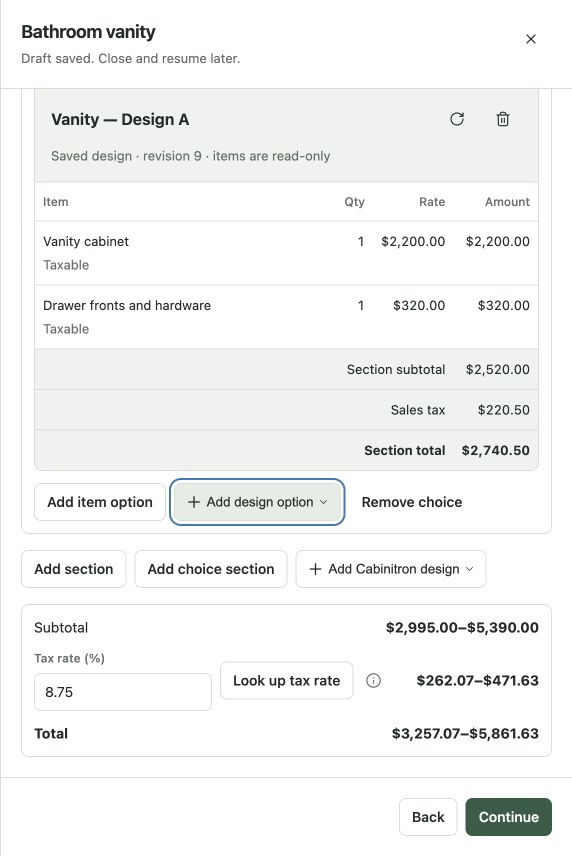
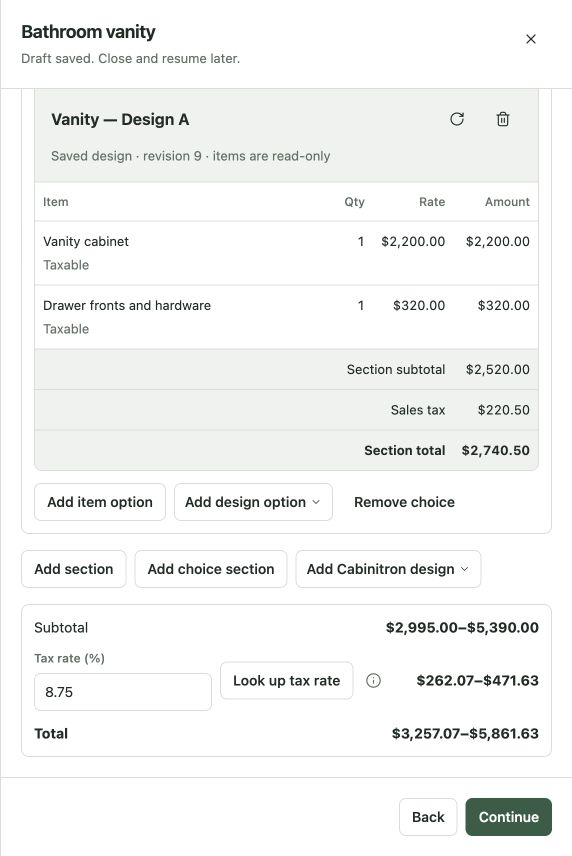
Match button typography and align estimate tax controls

Changed region(s): [[0.2972, 0.5467, 0.8024, 0.6682]]

diff --git a/apps/catalog/src/EstimateWorkflowPrototype.tsx b/apps/catalog/src/EstimateWorkflowPrototype.tsx
@@ -1,4 +1,4 @@
-import { useEffect, useRef, useState } from "react";
+import { useEffect, useId, useRef, useState } from "react";
 import * as stylex from "@stylexjs/stylex";
 import {
   Button,
@@ -16,7 +16,7 @@ import {
   type WorkflowStep,
 } from "@from-trees/ui";
 import { layout, gap, padding } from "@from-trees/ui/utilities";
-import { color } from "@from-trees/ui/tokens.stylex";
+import { color, metrics } from "@from-trees/ui/tokens.stylex";
 
 type Row = {
   id: string;
@@ -147,6 +147,12 @@ const s = stylex.create({
     lineHeight: 1.5,
     overflowWrap: "anywhere",
   },
+  taxLabel: {
+    fontSize: metrics.small,
+    fontWeight: 550,
+    color: color.muted,
+    lineHeight: 1.4,
+  },
   field: { minWidth: 120 },
   qty: { width: 52 },
   rate: { width: 76 },
@@ -174,6 +180,7 @@ const s = stylex.create({
 
 /** Interactive catalog composition. All customers, prices, designs and delivery are synthetic. */
 export function EstimateWorkflowPrototype() {
+  const taxInputId = useId();
   const [draft, setDraft] = useState<Draft>(initial),
     [stored, setStored] = useState<Draft | null>(read),
     [open, setOpen] = useState(false),
@@ -317,12 +324,10 @@ export function EstimateWorkflowPrototype() {
   const designButton = (choiceId?: string, choiceTitle?: string) => {
     const text = choiceId ? "Add design option" : "Add Cabinitron design";
     return locked ? (
-      <Button icon="add" isDisabled>
-        {text}
-      </Button>
+      <Button isDisabled>{text}</Button>
     ) : (
       <MenuButton
-        icon="add"
+        icon={null}
         text={text}
         label={choiceId ? `Add design option to ${choiceTitle}` : text}
         actions={designs.map((name) => ({
@@ -592,70 +597,91 @@ export function EstimateWorkflowPrototype() {
       );
   const formattedRange = ([min, max]: [number, number]) =>
     min === max ? money(min) : `${money(min)}–${money(max)}`;
-  const renderSummary = (editable: boolean) => (
-    <section
-      aria-label="Estimate summary"
-      {...stylex.props(s.card, padding.md, layout.stack, gap.md)}
-    >
-      <div {...stylex.props(layout.row, layout.between, gap.sm)}>
-        <span>Subtotal</span>
-        <strong>{formattedRange(range(draft, subtotal))}</strong>
-      </div>
-      <div
-        {...stylex.props(
-          layout.row,
-          layout.wrap,
-          layout.between,
-          layout.alignCenter,
-          gap.sm,
-        )}
+  const renderSummary = (editable: boolean) => {
+    const taxAmount = formattedRange(
+      range(draft, (g) => total(g, draft.tax) - subtotal(g)),
+    );
+    return (
+      <section
+        aria-label="Estimate summary"
+        {...stylex.props(s.card, padding.md, layout.stack, gap.md)}
       >
+        <div {...stylex.props(layout.row, layout.between, gap.sm)}>
+          <span>Subtotal</span>
+          <strong>{formattedRange(range(draft, subtotal))}</strong>
+        </div>
         {editable ? (
+          <div {...stylex.props(layout.stack, gap.sm)}>
+            <label
+              id={`${taxInputId}-label`}
+              htmlFor={taxInputId}
+              {...stylex.props(s.taxLabel)}
+            >
+              Tax rate (%)
+            </label>
+            <div
+              {...stylex.props(
+                layout.row,
+                layout.wrap,
+                layout.between,
+                layout.alignCenter,
+                gap.sm,
+              )}
+            >
+              <div
+                {...stylex.props(
+                  layout.row,
+                  layout.wrap,
+                  layout.alignCenter,
+                  gap.sm,
+                )}
+              >
+                <TextInput
+                  id={taxInputId}
+                  aria-labelledby={`${taxInputId}-label`}
+                  inputMode="decimal"
+                  value={draft.tax}
+                  disabled={locked}
+                  onChange={(e) => patch({ tax: e.target.value })}
+                />
+                <Button
+                  isDisabled={locked}
+                  onPress={() => {
+                    setFound(false);
+                    setTaxOpen(true);
+                  }}
+                >
+                  Look up tax rate
+                </Button>
+                <InfoTooltip label="tax rate">
+                  One rate from zero to one hundred percent applies to taxable
+                  rows. California lookup returns a sample rate in this catalog;
+                  applying it requires Update tax rate.
+                </InfoTooltip>
+              </div>
+              <strong aria-label="Estimate tax amount">{taxAmount}</strong>
+            </div>
+          </div>
+        ) : (
           <div
             {...stylex.props(
               layout.row,
-              layout.wrap,
+              layout.between,
               layout.alignCenter,
               gap.sm,
             )}
           >
-            <TextInput
-              label="Tax rate (%)"
-              inputMode="decimal"
-              value={draft.tax}
-              disabled={locked}
-              onChange={(e) => patch({ tax: e.target.value })}
-            />
-            <Button
-              isDisabled={locked}
-              onPress={() => {
-                setFound(false);
-                setTaxOpen(true);
-              }}
-            >
-              Look up tax rate
-            </Button>
-            <InfoTooltip label="tax rate">
-              One rate from zero to one hundred percent applies to taxable rows.
-              California lookup returns a sample rate in this catalog; applying
-              it requires Update tax rate.
-            </InfoTooltip>
+            <span>Sales tax ({draft.tax}%)</span>
+            <strong aria-label="Estimate tax amount">{taxAmount}</strong>
           </div>
-        ) : (
-          <span>Sales tax ({draft.tax}%)</span>
         )}
-        <strong aria-label="Estimate tax amount">
-          {formattedRange(
-            range(draft, (g) => total(g, draft.tax) - subtotal(g)),
-          )}
-        </strong>
-      </div>
-      <div {...stylex.props(layout.row, layout.between, gap.sm)}>
-        <strong>Total</strong>
-        <strong>{formattedRange([low, high])}</strong>
-      </div>
-    </section>
-  );
+        <div {...stylex.props(layout.row, layout.between, gap.sm)}>
+          <strong>Total</strong>
+          <strong>{formattedRange([low, high])}</strong>
+        </div>
+      </section>
+    );
+  };
   return (
     <section {...stylex.props(layout.stack, gap.lg)}>
       <h1 {...stylex.props(s.heading)}>Create an estimate</h1>

diff --git a/packages/ui/src/MenuButton.tsx b/packages/ui/src/MenuButton.tsx
@@ -29,6 +29,10 @@ const styles = stylex.create({
     boxSizing: "border-box",
     margin: 0,
     textTransform: "none",
+    fontFamily: "inherit",
+    fontSize: "inherit",
+    fontWeight: 550,
+    lineHeight: 1.3,
     display: "inline-flex",
     alignItems: "center",
     justifyContent: "center",
@@ -90,7 +94,7 @@ export function MenuButton({
   actions,
 }: {
   label?: string;
-  icon?: IconName;
+  icon?: IconName | null;
   text?: string;
   actions: readonly Action[];
 }) {
@@ -102,9 +106,11 @@ export function MenuButton({
         {...stylex.props(styles.trigger, !!text && styles.labeledTrigger)}
       >
         <span title={label} {...stylex.props(styles.triggerContents)}>
-          <Icon name={icon} size={18} />
+          {icon && <Icon name={icon} size={18} />}
           {text && <span>{text}</span>}
-          {(text || icon !== "more") && <Icon name="chevronDown" size={12} />}
+          {(text || (icon && icon !== "more")) && (
+            <Icon name="chevronDown" size={12} />
+          )}
         </span>
       </AriaButton>
       <Popover

diff --git a/docs/estimate-workflow.md b/docs/estimate-workflow.md
@@ -3,7 +3,7 @@
 Open **Create estimates** in the catalog, or `/?example=estimate-workflow`, then **Create new estimate**. This is a working catalog composition using the existing workflow side panel, WorkflowProgress, DocumentSection, DocumentChoiceGroup, fields, buttons and dialogs. The shared DocumentSection adds compact header actions, optional inline title/description editing and footer actions. DocumentChoiceGroup also supports inline title/description editing. These remain presentation callbacks; no application data model changes are included.
 
 1. **Start estimate** — enter the name, select/create a customer and choose an expiration date. Save and continue requires all three, and saves a resumable example draft. Closing and resuming restores edits and the current step.
-2. **Add line items** — edit descriptions, quantities, USD unit rates and Taxable flags in customer-style tables. Add sections with titles, descriptions and separate subtotals. Regular sections and choice options are each one card: click their header title or description to edit in place. Enter or blur saves, Escape cancels without closing the workflow. There are no duplicate metadata fields above the cards. Remove stays in the header; Add item stays inside the card footer. Create a choice section first, then add saved design options or line-item alternatives directly inside it. A new choice is generically titled **Design options**, starts empty and makes no assumption about finishes, materials, dimensions or layout. Its title and description are editable. **Add design option** and **Add Cabinitron design** are consistent labeled buttons that open the same saved-design menu. The first adds to its choice; the second adds a standalone design group alongside Add section/Add choice section. **Add design option** selects any saved sample design; **Add item option** creates an alternative containing an editable first row. Each choice needs at least two complete alternatives. Adding a design immediately supplies read-only rows and its subtotal. Update and remove icon controls sit alongside the design title in its shaded header. **Update to latest revision** explicitly refreshes the sample design and invalidates its old package.
+2. **Add line items** — edit descriptions, quantities, USD unit rates and Taxable flags in customer-style tables. Add sections with titles, descriptions and separate subtotals. Regular sections and choice options are each one card: click their header title or description to edit in place. Enter or blur saves, Escape cancels without closing the workflow. There are no duplicate metadata fields above the cards. Remove stays in the header; Add item stays inside the card footer. Create a choice section first, then add saved design options or line-item alternatives directly inside it. A new choice is generically titled **Design options**, starts empty and makes no assumption about finishes, materials, dimensions or layout. Its title and description are editable. **Add design option** and **Add Cabinitron design** are consistent labeled buttons without redundant plus icons that open the same saved-design menu. Their typography matches ordinary action buttons (inherited font family/size, weight 550). The first adds to its choice; the second adds a standalone design group alongside Add section/Add choice section. **Add design option** selects any saved sample design; **Add item option** creates an alternative containing an editable first row. Each choice needs at least two complete alternatives. Adding a design immediately supplies read-only rows and its subtotal. Update and remove icon controls sit alongside the design title in its shaded header. **Update to latest revision** explicitly refreshes the sample design and invalidates its old package.
 3. **Prepare documents** — generate/rebuild a customer package for the exact revision of each linked design, including options. Continue remains unavailable until every linked design has a matching package. Additional PDF/PNG/JPEG files can be selected and removed. Native designs are optional.
 4. **Set T&C** — edit the terms for this estimate, without changing a global template. Empty terms prevent continuation.
 5. **Review and finalize** — review the same section tables, option groups, overall summary, customer, expiration, documents and terms. Finalization locks earlier fields. **Prepare a new revision** enables edits again without representing them as an in-place edit to an issued document.
@@ -11,7 +11,7 @@ Open **Create estimates** in the catalog, or `/?example=estimate-workflow`, then
 
 The entire estimate summary is **Subtotal → tax rate and tax amount → Total**. Section subtotals remain in their own tables. Each row's tax is rounded to cents and tax-exempt rows are excluded. With unresolved customer choices, subtotal, tax and total each show the appropriate range across alternatives; shared work is included once. The customer-facing estimate's exact selected-price journey remains a separate pattern.
 
-The tax lookup button sits beside the overall tax-rate field. It opens a California address dialog; finding a sample result does not change the estimate. **Update tax rate** explicitly applies the result and closes the dialog. Editing the lookup address invalidates the previously found result. This catalog returns a clearly identified synthetic rate, not a live tax determination.
+The tax lookup button aligns with the overall tax-rate input itself, with the label above both controls. The input, lookup button, help icon and tax amount share the same control row. It opens a California address dialog; finding a sample result does not change the estimate. **Update tax rate** explicitly applies the result and closes the dialog. Editing the lookup address invalidates the previously found result. This catalog returns a clearly identified synthetic rate, not a live tax determination.
 
 ## Persistence and application boundary
 
@@ -27,6 +27,7 @@ Browser inspection exercised the start, item editing, lookup, design refresh, pa
 
 ![Start](review/estimate-workflow/start.png)
 ![Overall subtotal, tax and total](review/estimate-workflow/summary.png)
+![Aligned tax control row](review/estimate-workflow/tax-aligned.png)
 ![Explicit California lookup application](review/estimate-workflow/tax.png)
 ![Consistent add-design buttons](review/estimate-workflow/design-buttons.png)
 ![Saved-design menu](review/estimate-workflow/design-picker.png)
